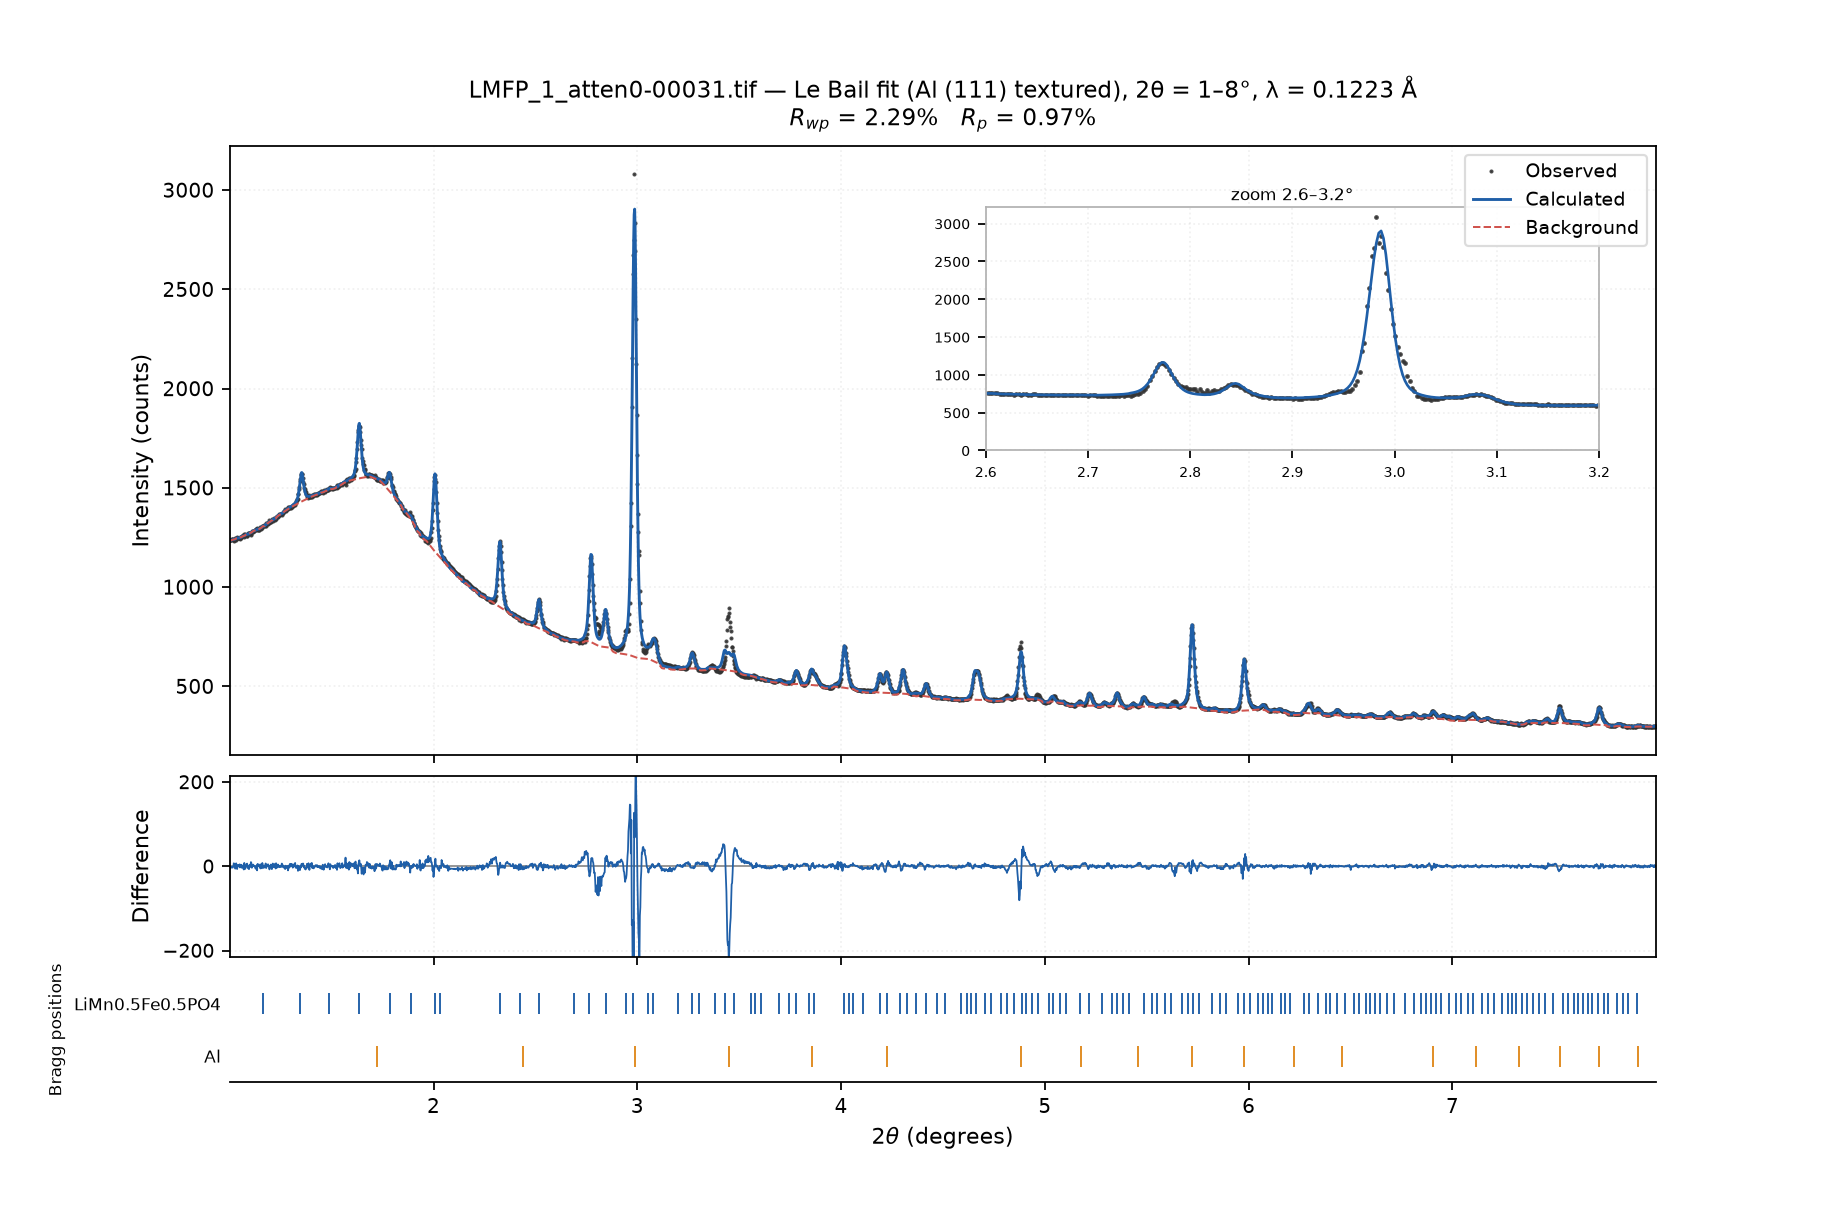
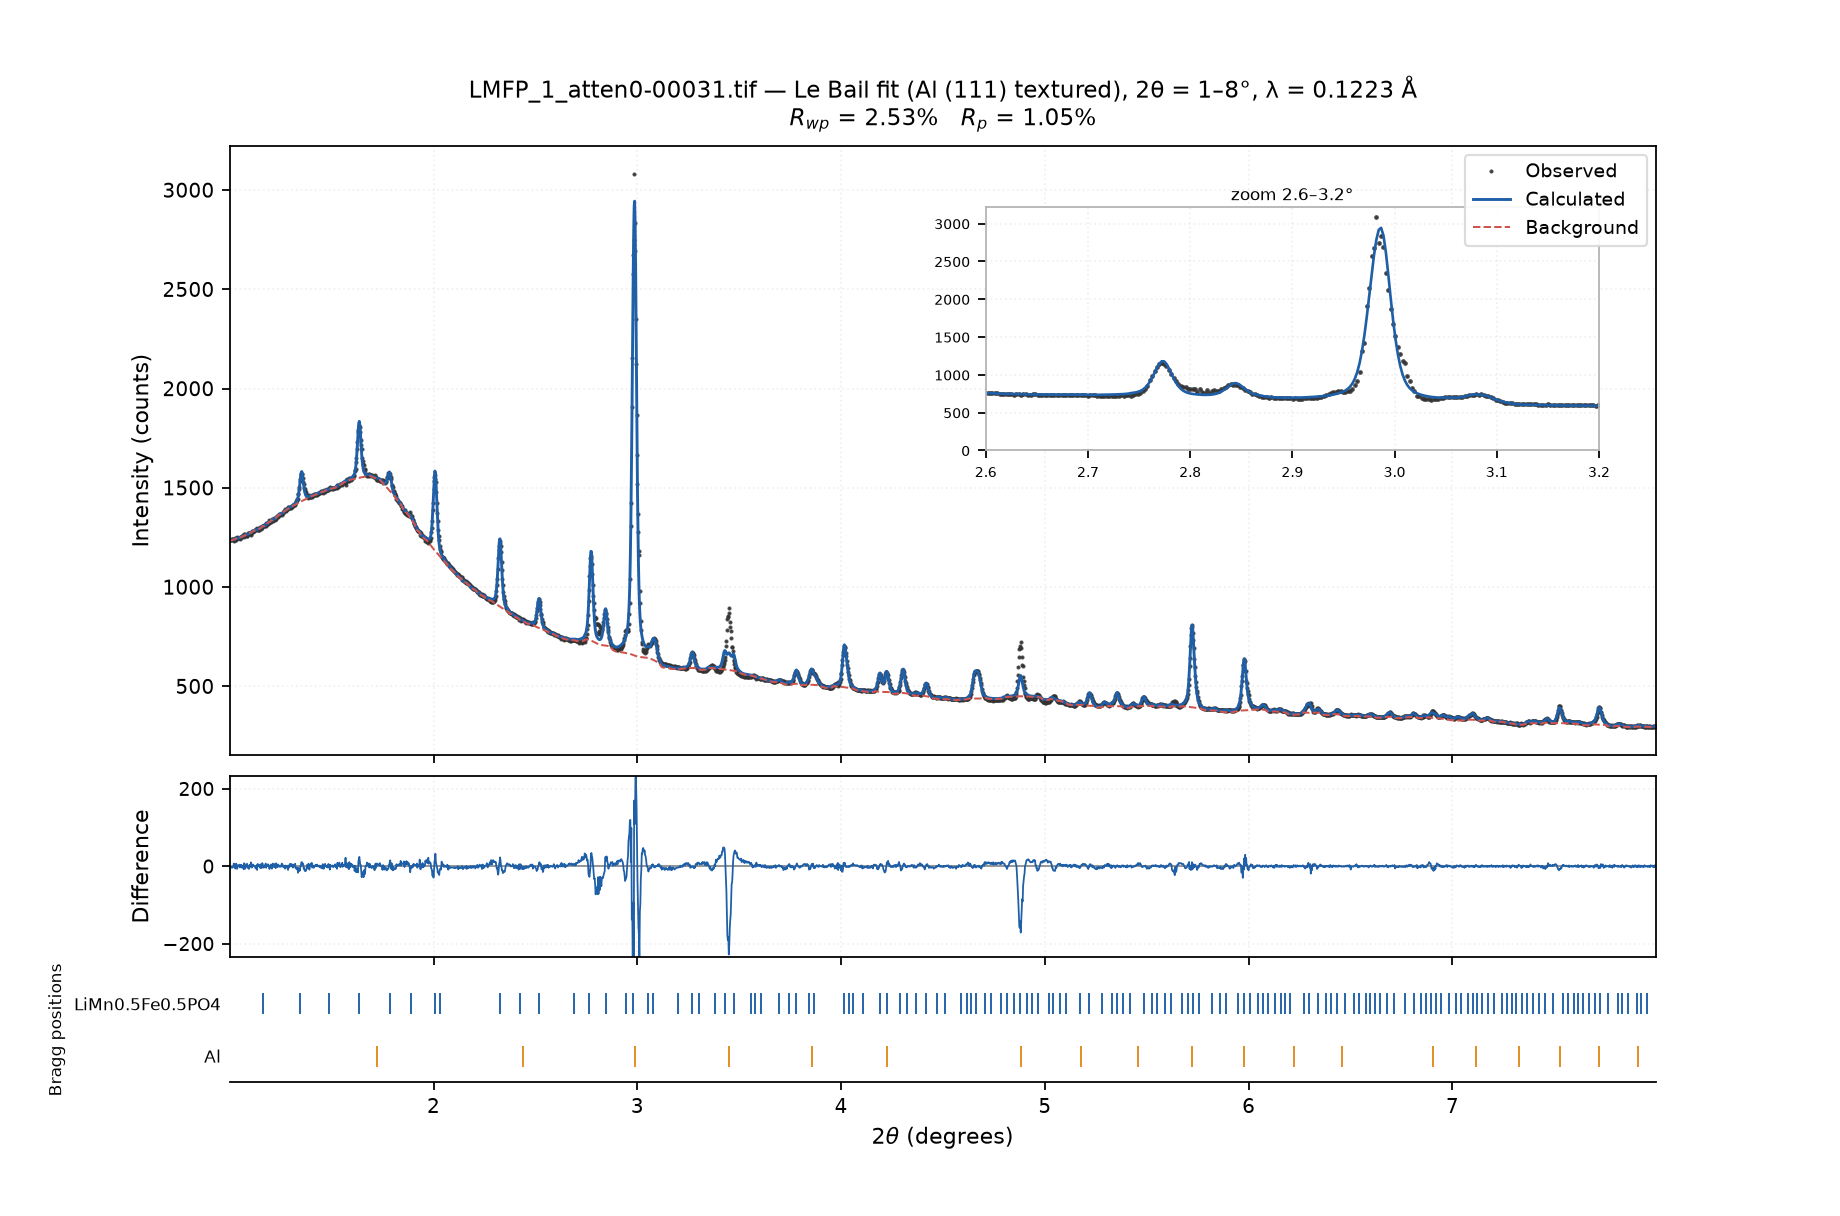
data: replace the derived olivine CIFs with experimental COD entries
- the three repo CIFs shared one P1-expanded cell of 10.236/5.971/4.655 A,
  ~1.4% below the experimental values
- use the COD entries instead: LiFePO4 (COD 4001845), LMFP 50/50
  (COD 9004883), LiMnPO4 (COD 9011037); axes converted to the
  conventional a~10.3/b~6.0/c~4.7 order and written as P1 with the COD
  provenance in the header
- the phase-screening cell scale drops from 1.018 to ~0.99
- refresh the LMFP figures/reports: structural 3.46%, Le Bail 2.53%
  (the old 2.29 came from the wrong-cell reflection table, not from a
  better model)

diff --git a/CHANGELOG.md b/CHANGELOG.md
@@ -18,6 +18,13 @@
 
 ### 模拟
 
+- **橄榄石 CIF 修正**（2026-10-23）：仓库三个 CIF 的晶胞原来都是
+  10.236/5.971/4.655 Å（P1 派生，比实验小 ~1.4%）。换成实验 COD 条目：
+  LiFePO4 10.336/6.006/4.693（COD 4001845）、LMFP 50/50
+  10.383/6.050/4.714（COD 9004883）、LiMnPO4 10.460/6.100/4.744
+  （COD 9011037）；统一到常规轴序、P1 展开，文件头注明 COD 出处。
+  相筛选的晶胞缩放从 1.018 回到 ~0.99。LMFP：结构 3.46%、
+  Le Bail 2.53%（旧错误晶胞下的 2.29 是另一套反射表，不能当作"更对"）。
 - **固定坏点团掩膜**（2026-10-23）：LMFP 数据里 2.8–2.9° 的强峰簇是
   **探测器固定亮斑**（两帧同位置、峰值 ~1.2M counts、正常环 ~800），
   不是相分离/成分分布。新增 `services/hot_pixels.mask_hot_pixels`
@@ -248,6 +255,13 @@
 
 ### 模拟
 
+- **橄榄石 CIF 修正**（2026-10-23）：仓库三个 CIF 的晶胞原来都是
+  10.236/5.971/4.655 Å（P1 派生，比实验小 ~1.4%）。换成实验 COD 条目：
+  LiFePO4 10.336/6.006/4.693（COD 4001845）、LMFP 50/50
+  10.383/6.050/4.714（COD 9004883）、LiMnPO4 10.460/6.100/4.744
+  （COD 9011037）；统一到常规轴序、P1 展开，文件头注明 COD 出处。
+  相筛选的晶胞缩放从 1.018 回到 ~0.99。LMFP：结构 3.46%、
+  Le Bail 2.53%（旧错误晶胞下的 2.29 是另一套反射表，不能当作"更对"）。
 - **新增 XRD 模拟模块**（RY04 第六周并入）：`xrd_toolkit.simulation` 从 CIF 计算理论
   粉末 XRD 图谱。手写版（布拉格定律 + 结构因子，公式全自写）与 pymatgen
   `XRDCalculator` 参考版并存；Si / LaB₆ / Al₂O₃ 三个材料逐峰对答案一致
